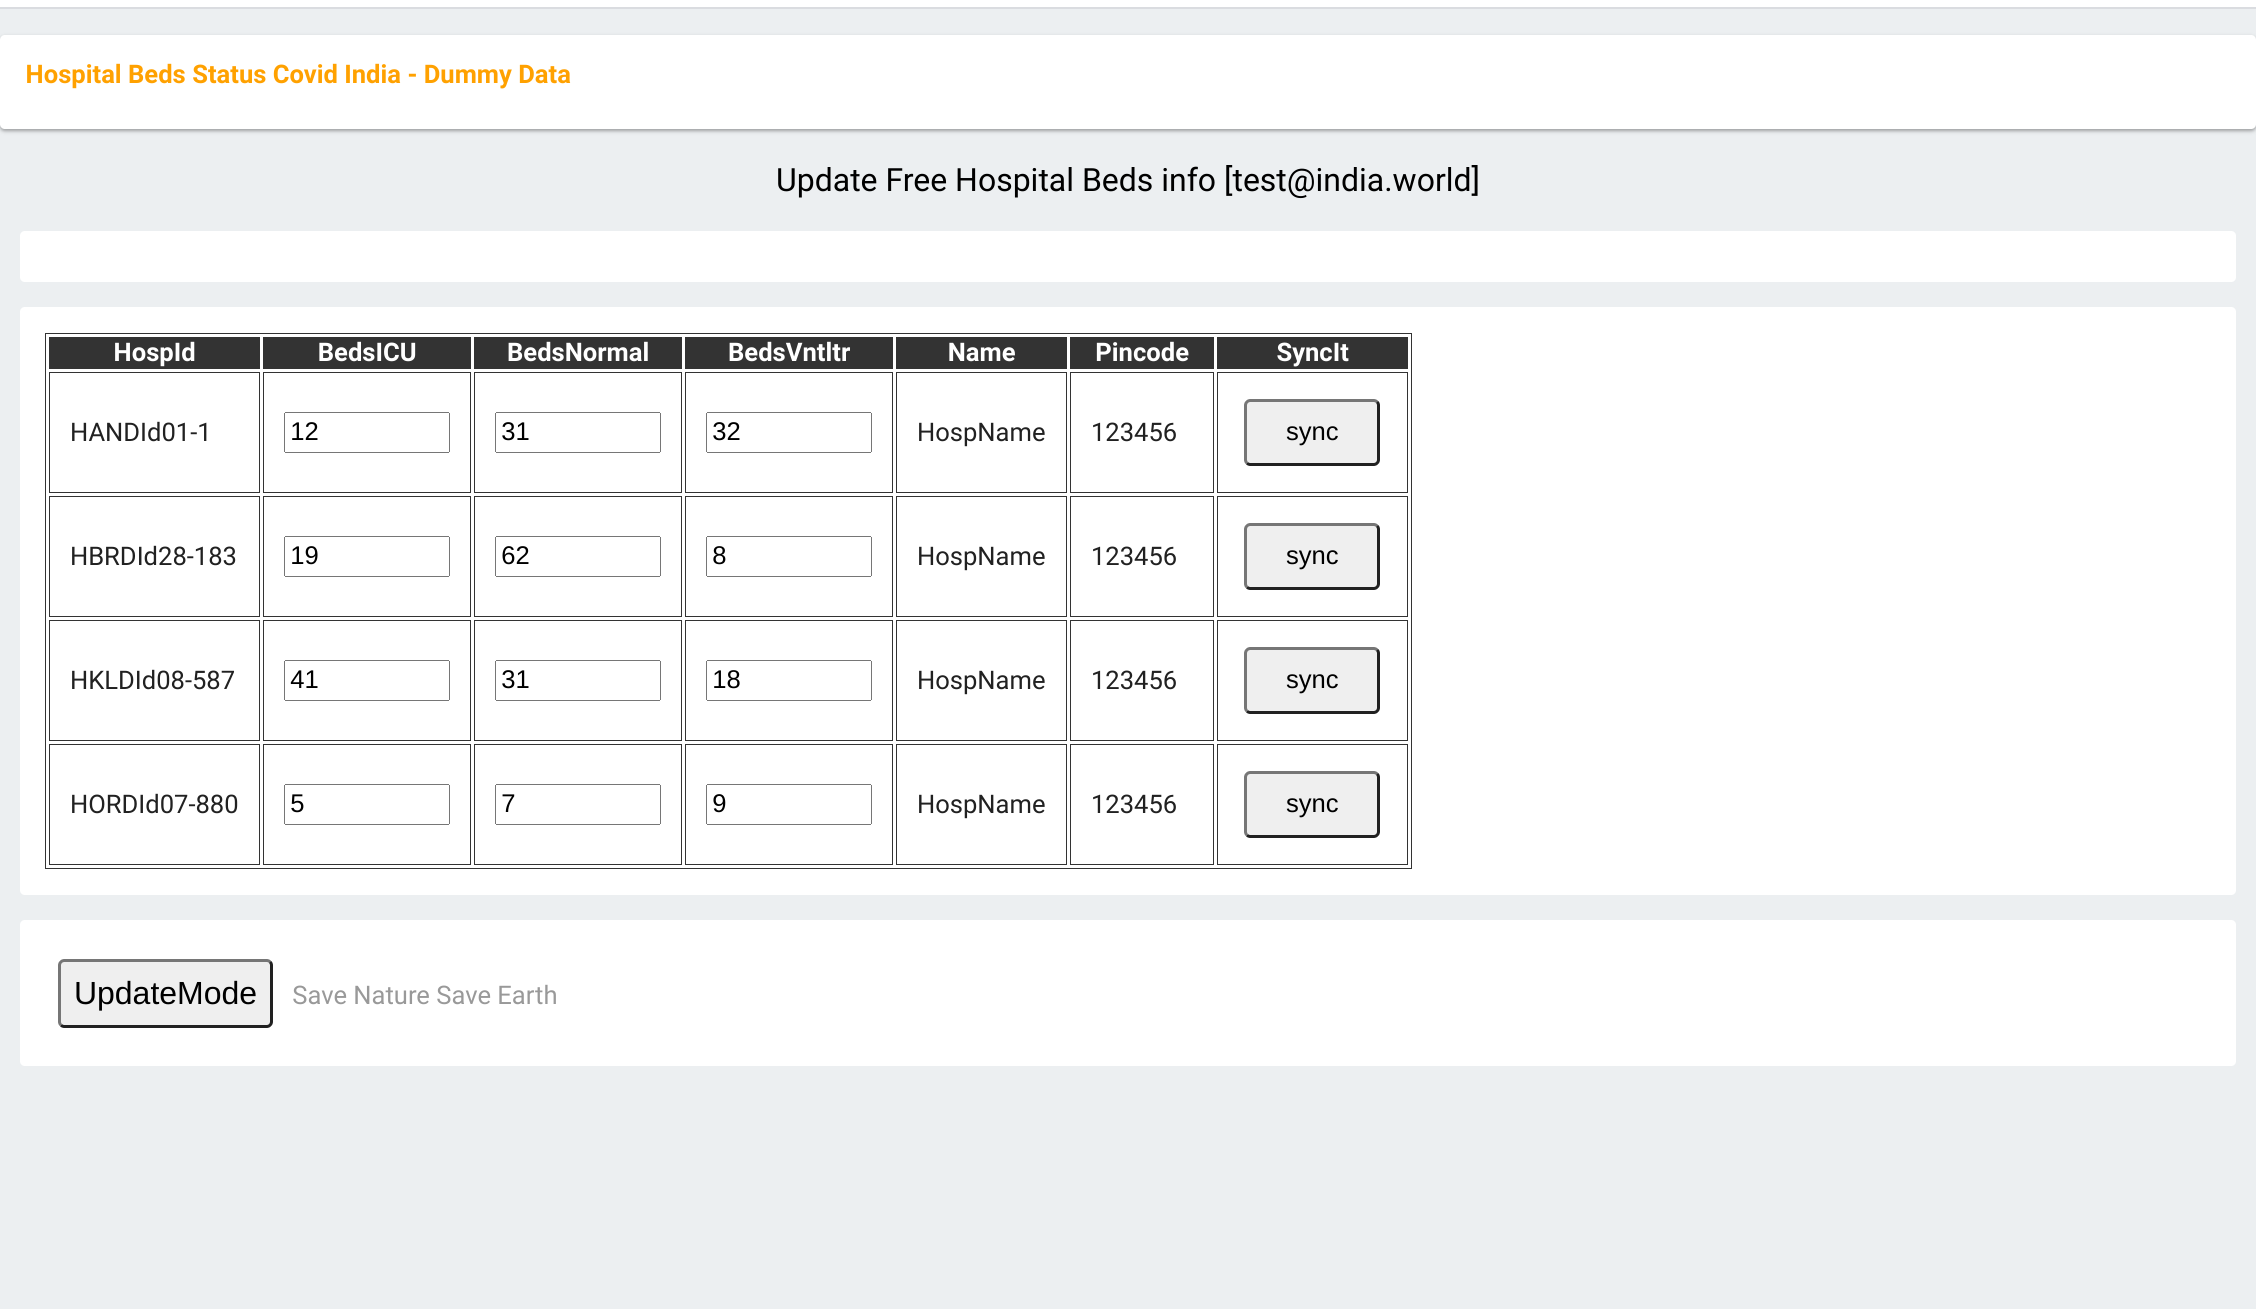
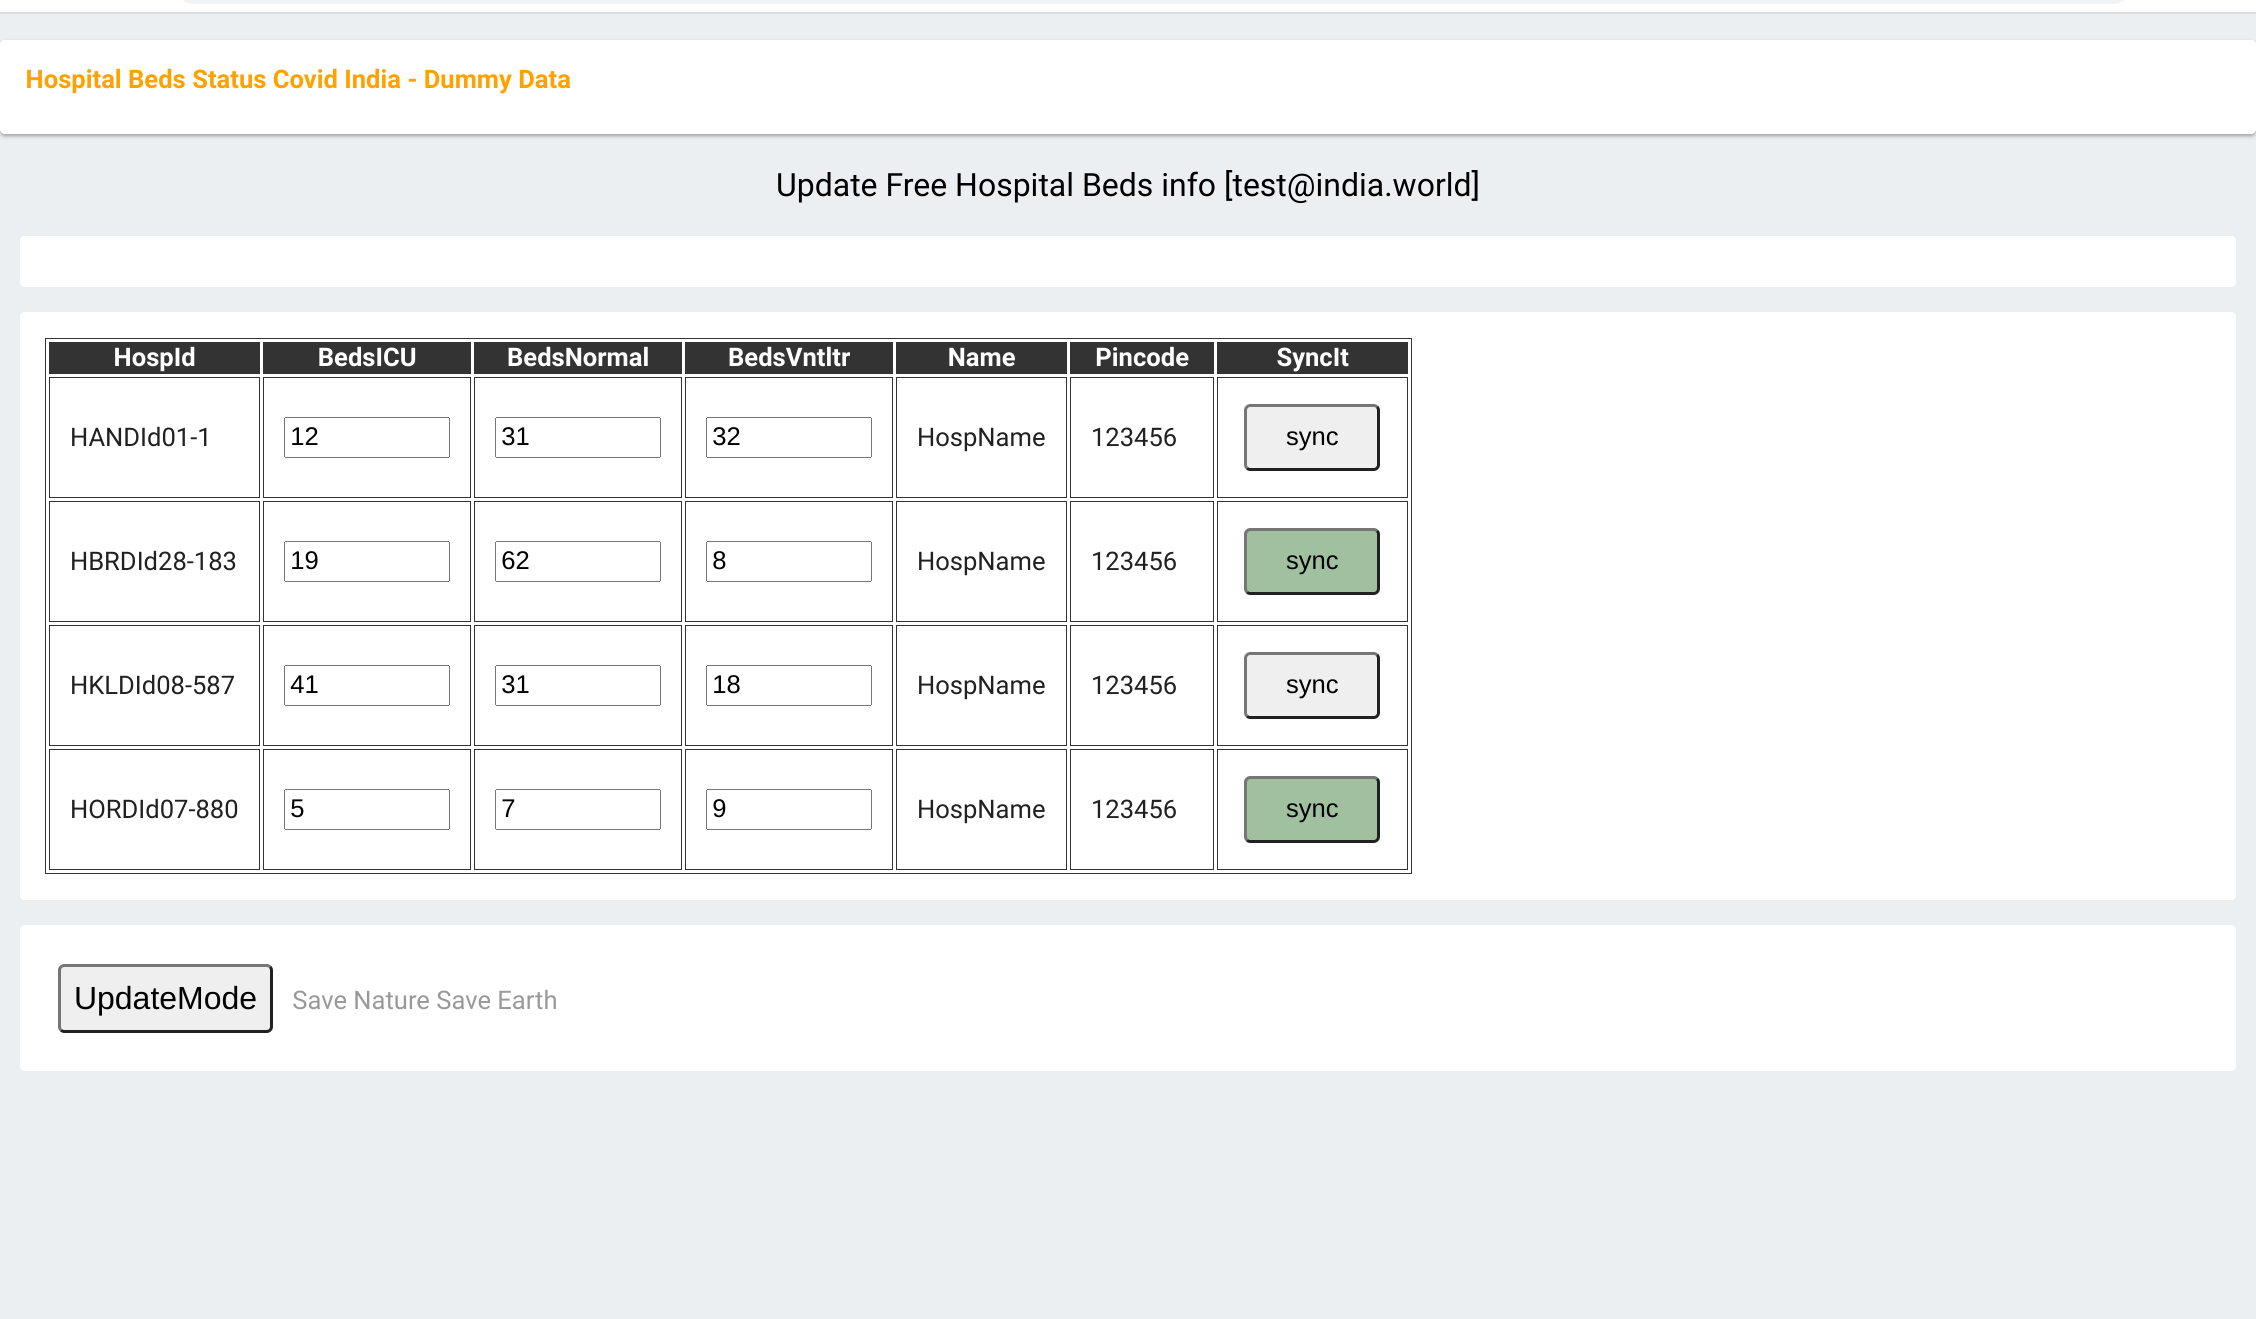
Readme udpated
Button color coding info and moving away from page implications
are noted wrt udpate page.

Also update screen image updated to show the Button Color coding

This sample image shows the success related green color coding
wrt sync button.

Reloading of page leading to clearing of the session is also noted
now.

diff --git a/README.rst b/README.rst
@@ -55,9 +55,23 @@ the system will automatically update the time stamp wrt the corresponding hospit
     the admin. Inturn it gives the option to update the availability status wrt all the
     hospitals from a single view.
 
+    Once the admin has updated availability data wrt any of the hospital. They need to
+    click on the corresponding sync button to trigger the same to be updated to the
+    system's backend.
+
     The sync button associated with each hospital is color coded to indicate, the status
     of the last update/sync operation triggered wrt that hospital. So they can know, if
     they need to trigger the sync again or not.
+
+        Gray/DefaultColor: Sync has not yet been triggered for the hospital.
+
+        Blue: A sync has been triggered, and is in process.
+
+        Red: The sync operation has failed. (User can press sync button to try again).
+
+        Green: The sync operation has succeeded.
+
+        NOTE: Moving away from the page will clear the color coding.
 
     NOTE: If one has modified data wrongly and has not yet synced it to the server, one
     can press the UpdateMode button and the logic will refresh the data in the shown table
@@ -105,6 +119,13 @@ The state/uts/districts/regions info even thou available in the database, is not
 picked from it, but instead picked from a json file maintained on the hosting server. Thus
 avoiding unnecessary eating into the data base queries quota, but instead chipping into the
 hosting quota, which should be fine, as nothing else is hosted other than the html+js files.
+
+
+General Note
+==============
+
+Reloading the page will reset the app to main screen and the user will have to login again,
+if they are data owners/hospital admins.
 
 
 History
